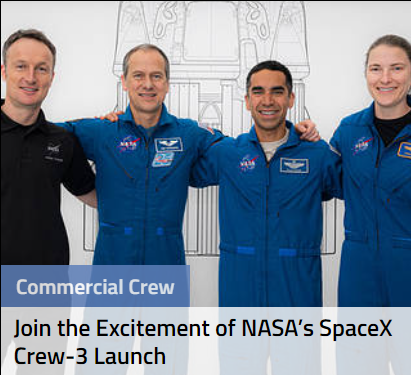
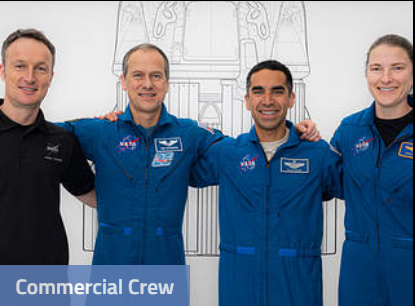
good version not finished

diff --git a/index.html b/index.html
@@ -36,36 +36,32 @@
     </header>
 
     <section class="general">
-        <div>
-            <div class="inline-block first-div-section">
-                <img id="satelite" src="satelite.PNG" alt="satelite image">
-            </div>
-
-            <div class="first-div-section inline-block">
-                <img id="commercial" src="cormercialCrew.PNG" alt="">
-                <img id="events" src="events.PNG" alt="">
-                <img id="astrology" src="astrology.PNG" alt="">
-            </div>
+        <div class="first-general-div">
+            <p>Resupply Ship Launches to Space Station</p>
         </div>
 
-        <div>
-            <div class="inline-block second-div-section">
-                <img class="image-24" src="ozone.PNG" alt="">
-                <img id="blackHoles" src="blackholes.PNG" alt="">
-                <img class="image-24" src="image-of-the-day.PNG" alt="">
+        <div class="second-general-div">
+            <div class="sous-div-general">
+                <p>Join the Excitement of NASA's SPaceX Crew-3 Launch</p>
+            </div>
+
+            <div class="sous-div-general2">
+                <p>Nasa Events</p>
+                <hr>
+                <p><a href="#">Thurs., Oct. 28, 1 p.m. EDT: Media teleconference to discuss the science aboard NASA's SpaceX Crew-3 mission</a></p>
+                <p><a href="#">Thurs., Oct. 28, 3 p.m. EDT: Briefing on science findings from the Juno mission to Jupiter</a></p>
+                <p><a href="#">Fri., Oct. 29, 12 p.m. EDT: Administrator's press conference on NASA's SpaceX Crew-3 mission</a></p>
+                <p><a href="#">Fri., Oct. 29, 1:30 p.m. EDT: Media teleconference to share information about S-MODE</a></p>
+                <p><a href="#">Fri., Oct. 29, 8:45 p.m. EDT: Rendezvous and docking of the ISS Progress 79 cargo ship to the space station</a></p>
+                <p><a href="#">Sat., Oct. 30, 10 p.m. EDT: Start of launch coverage of NASA's SpaceX Crew-3 mission</a></p>
+                <hr>
+                <p><a href="#">NASA TV ScheduleLaunches and Landings</a></p>
+            </div>
+
+            <div class="sous-div-general3">
+
             </div>
         </div>
-
-        <div>
-            <div class="inline-block second-div-section">
-                <img class="image-24" src="webtelescope.PNG" alt="">
-                <img class="image-24" src="nomination.PNG" alt="">
-                <img class="image-24" src="nasaraises.PNG" alt="">
-                <img class="image-24" src="spaceStation.PNG" alt="">
-            </div>
-        </div>
-
-
     </section>
 </body>
 </html>

diff --git a/style.css b/style.css
@@ -19,6 +19,7 @@ header {
     background: black;
     position: fixed;
     top: 0;
+    z-index: 999;
 }
 
 header ul{
@@ -50,10 +51,6 @@ header ul > li {
 
 }
 
-.general {
-    margin-top: 12rem;
-    margin-inline: auto;
-}
 
 input.search::placeholder {
     color: lightgrey;
@@ -79,60 +76,89 @@ input.search::placeholder {
     border-right: white 1px solid;
 }
 
-
-#no-border2, #no-border {
-    border: none;
-}
-
-#search {
-    position: absolute;
-    width: 13%;
-    margin-right: 12rem;
-    margin-top: 0.5%;
-}
-
-section{
+section.general {
+    position: relative;
+    border: solid 2px red;
     width: 90%;
-}
-.inline-block {
-    display: inline-block;
+    margin-inline: auto;
+    margin-top: 15rem;
 }
 
-.first-div-section {
+.first-general-div {
+    position: relative;
+    border: solid 2px red;
     width: 48%;
-    height: 60rem;
+    color: black;
+    background-image: url("test.PNG");
+    background-position: center;
+    background-size: cover;
+    background-repeat: no-repeat;
+    height: 50rem;
+    font-size: 1.8rem;
     display: inline-block;
 }
 
-#satelite {
+.first-general-div p {
+    position: absolute;
+    background: rgba(255, 255, 255, 0.8);
+    bottom: 0;
     width: 100%;
+    height: 7%;
+    font-weight: bold;
 }
 
-
-
-#commercial {
-    width: 49%;
+.second-general-div {
+    position: relative;
+    border: solid 2px red;
+    width: 48%;
+    color: black;
+    font-size: 1.8rem;
+    display: inline-block;
+    top: 0;
 }
 
-#events{
-    width: 49%;
+.sous-div-general {
+    position: relative;
+    border: white solid 1px;
+    width: 48%;
+    background-image: url("cormercialCrew.PNG");
+    height: 250px;
+    background-size: cover;
+    background-position: center;
+    display: inline-block;
 }
-
-#astrology {
+.sous-div-general p {
+    position: absolute;
+    background: rgba(255, 255, 255, 0.8);
+    bottom: 0;
     width: 100%;
-}
-
-.second-div-section {
-    width: 100%;
+    height: 20%;
+    font-weight: bold;
 
 }
 
-.image-24 {
-    width: 24%;
+.sous-div-general2 {
+    position: relative;
+    border: white solid 1px;
+    width: 48%;
+    display: inline-block;
+    color: white;
+    font-size: 1rem;
+    background: #39719e;
+    padding-inline: 10px;
+    top: -7px;
+
+}
+.sous-div-general2 p {
+    margin-top: 9px;
 }
 
-#blackHoles {
-    width:49% ;
+.sous-div-general2 > p >a {
+    color: white;
+    text-decoration-line: none;
 }
 
 
+.sous-div-general2 > p >a:hover {
+    text-decoration-line: underline;
+}
